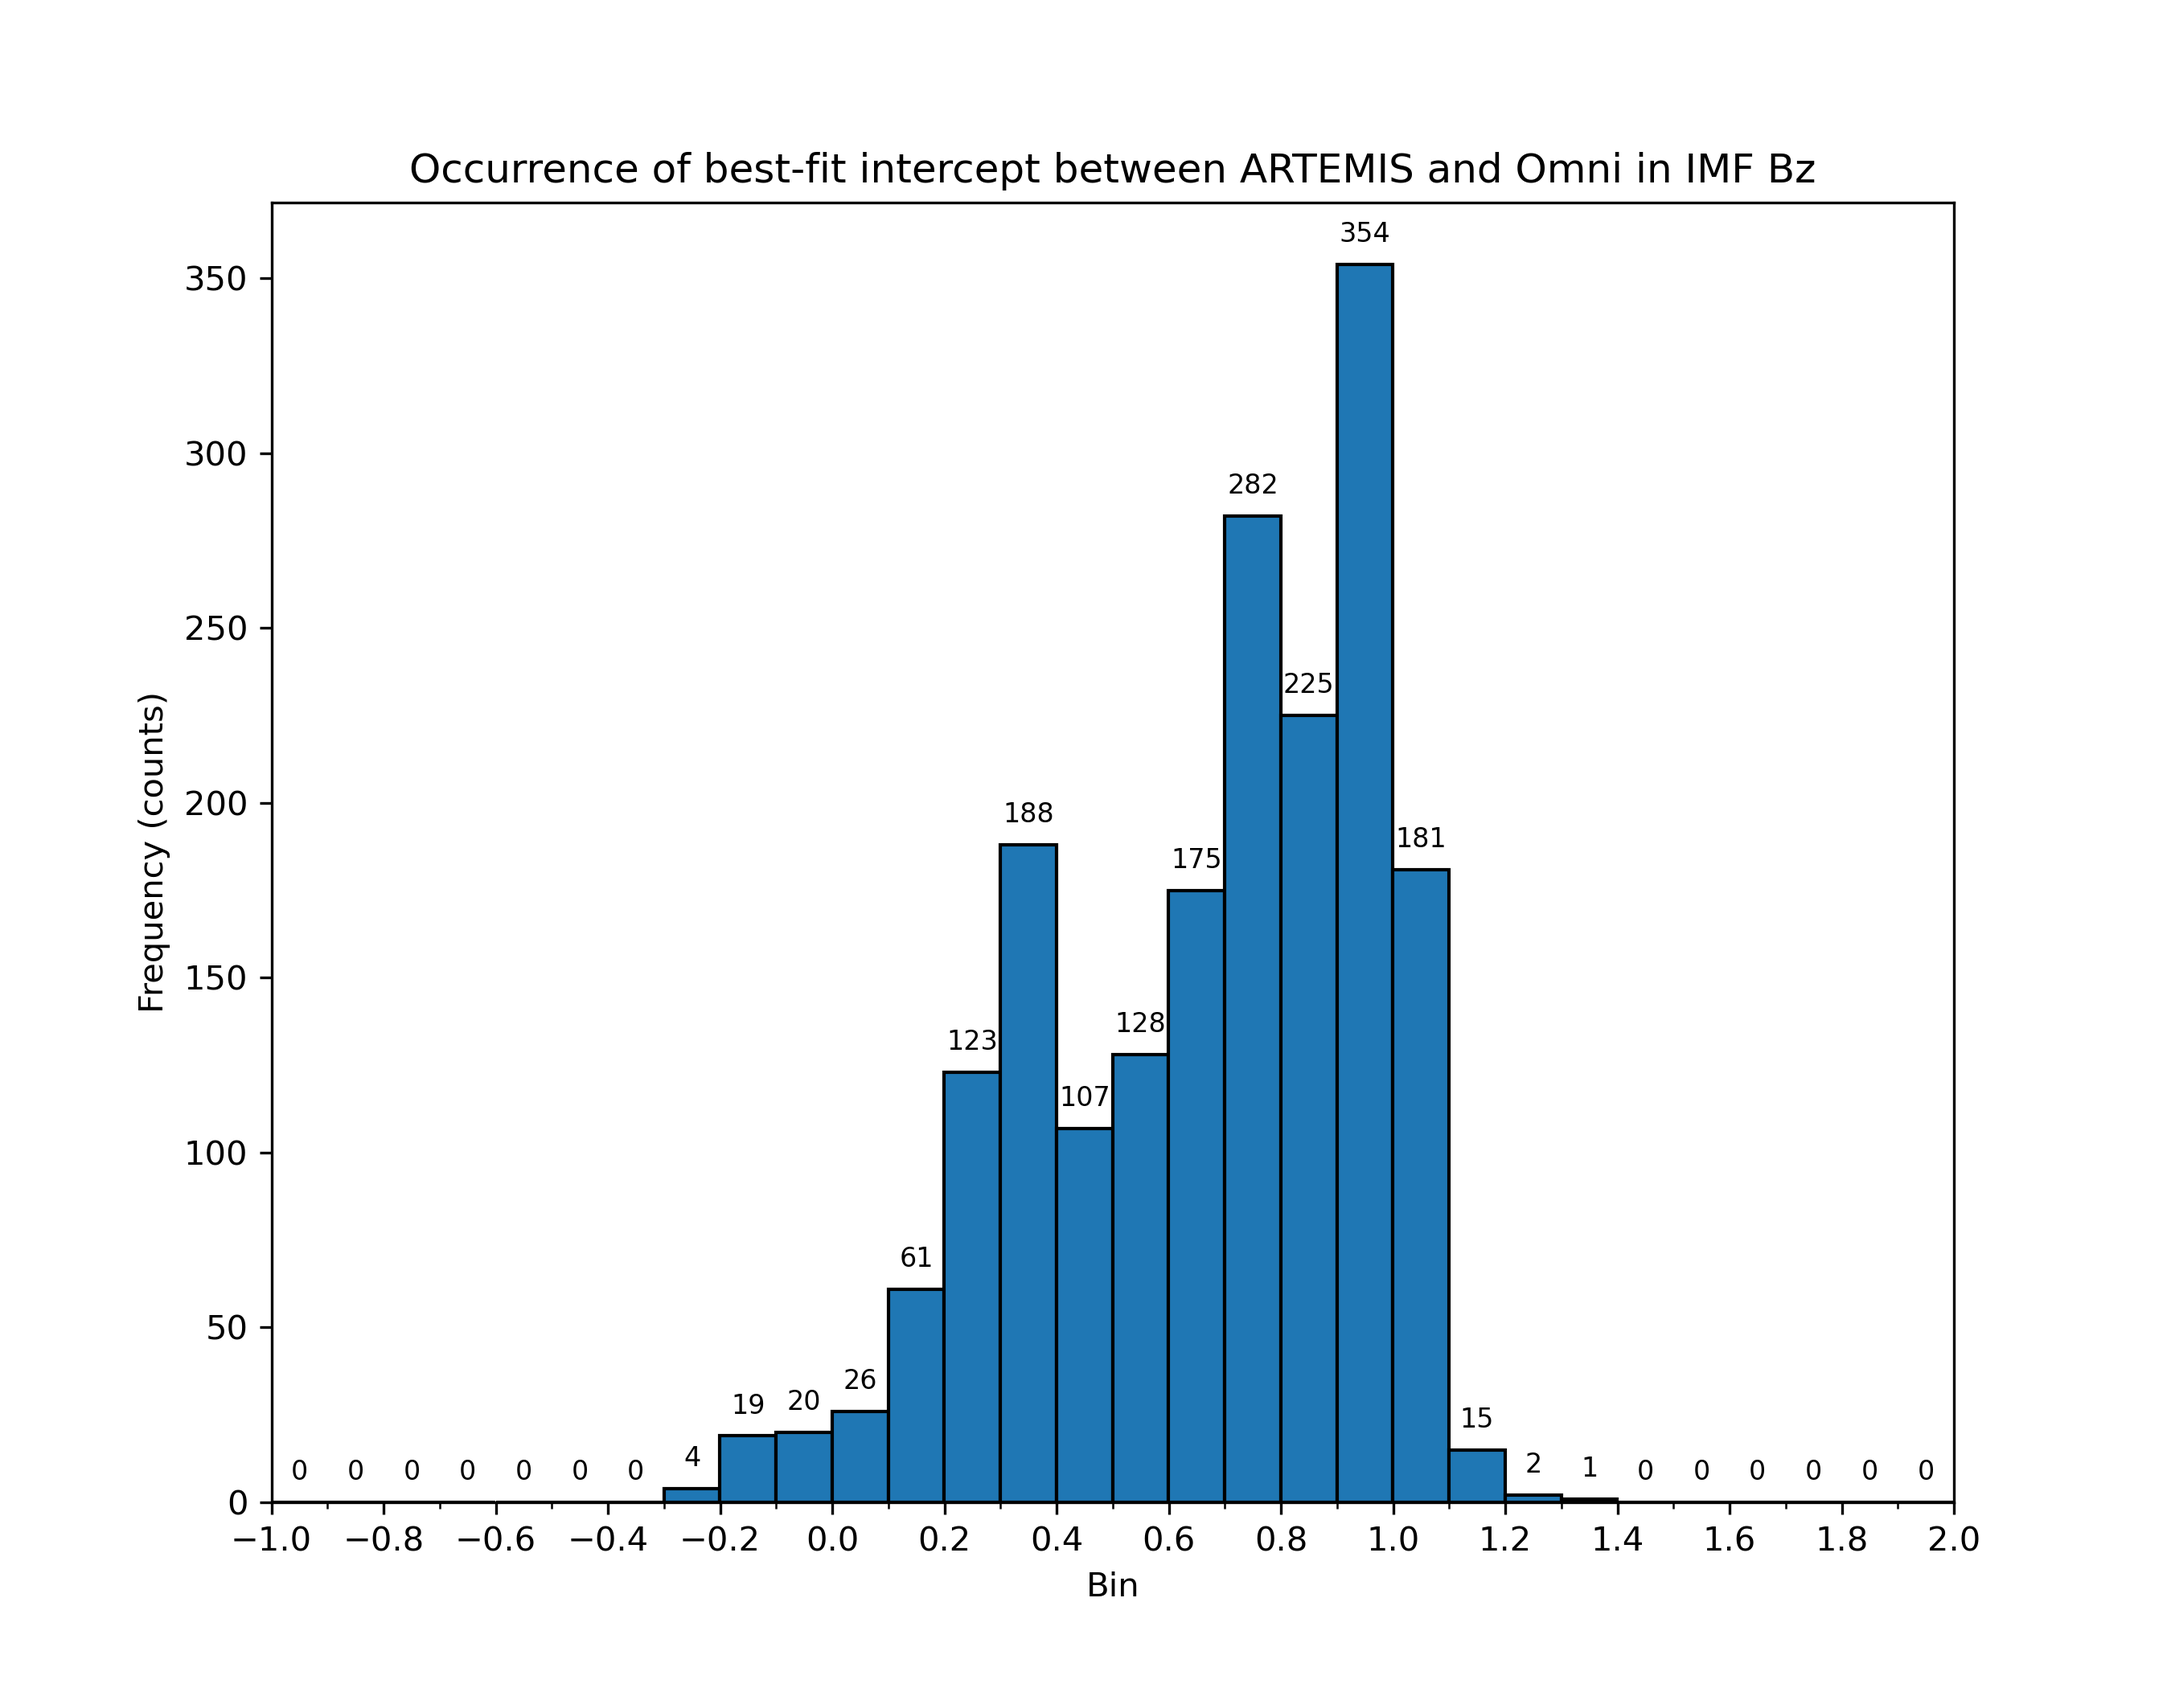
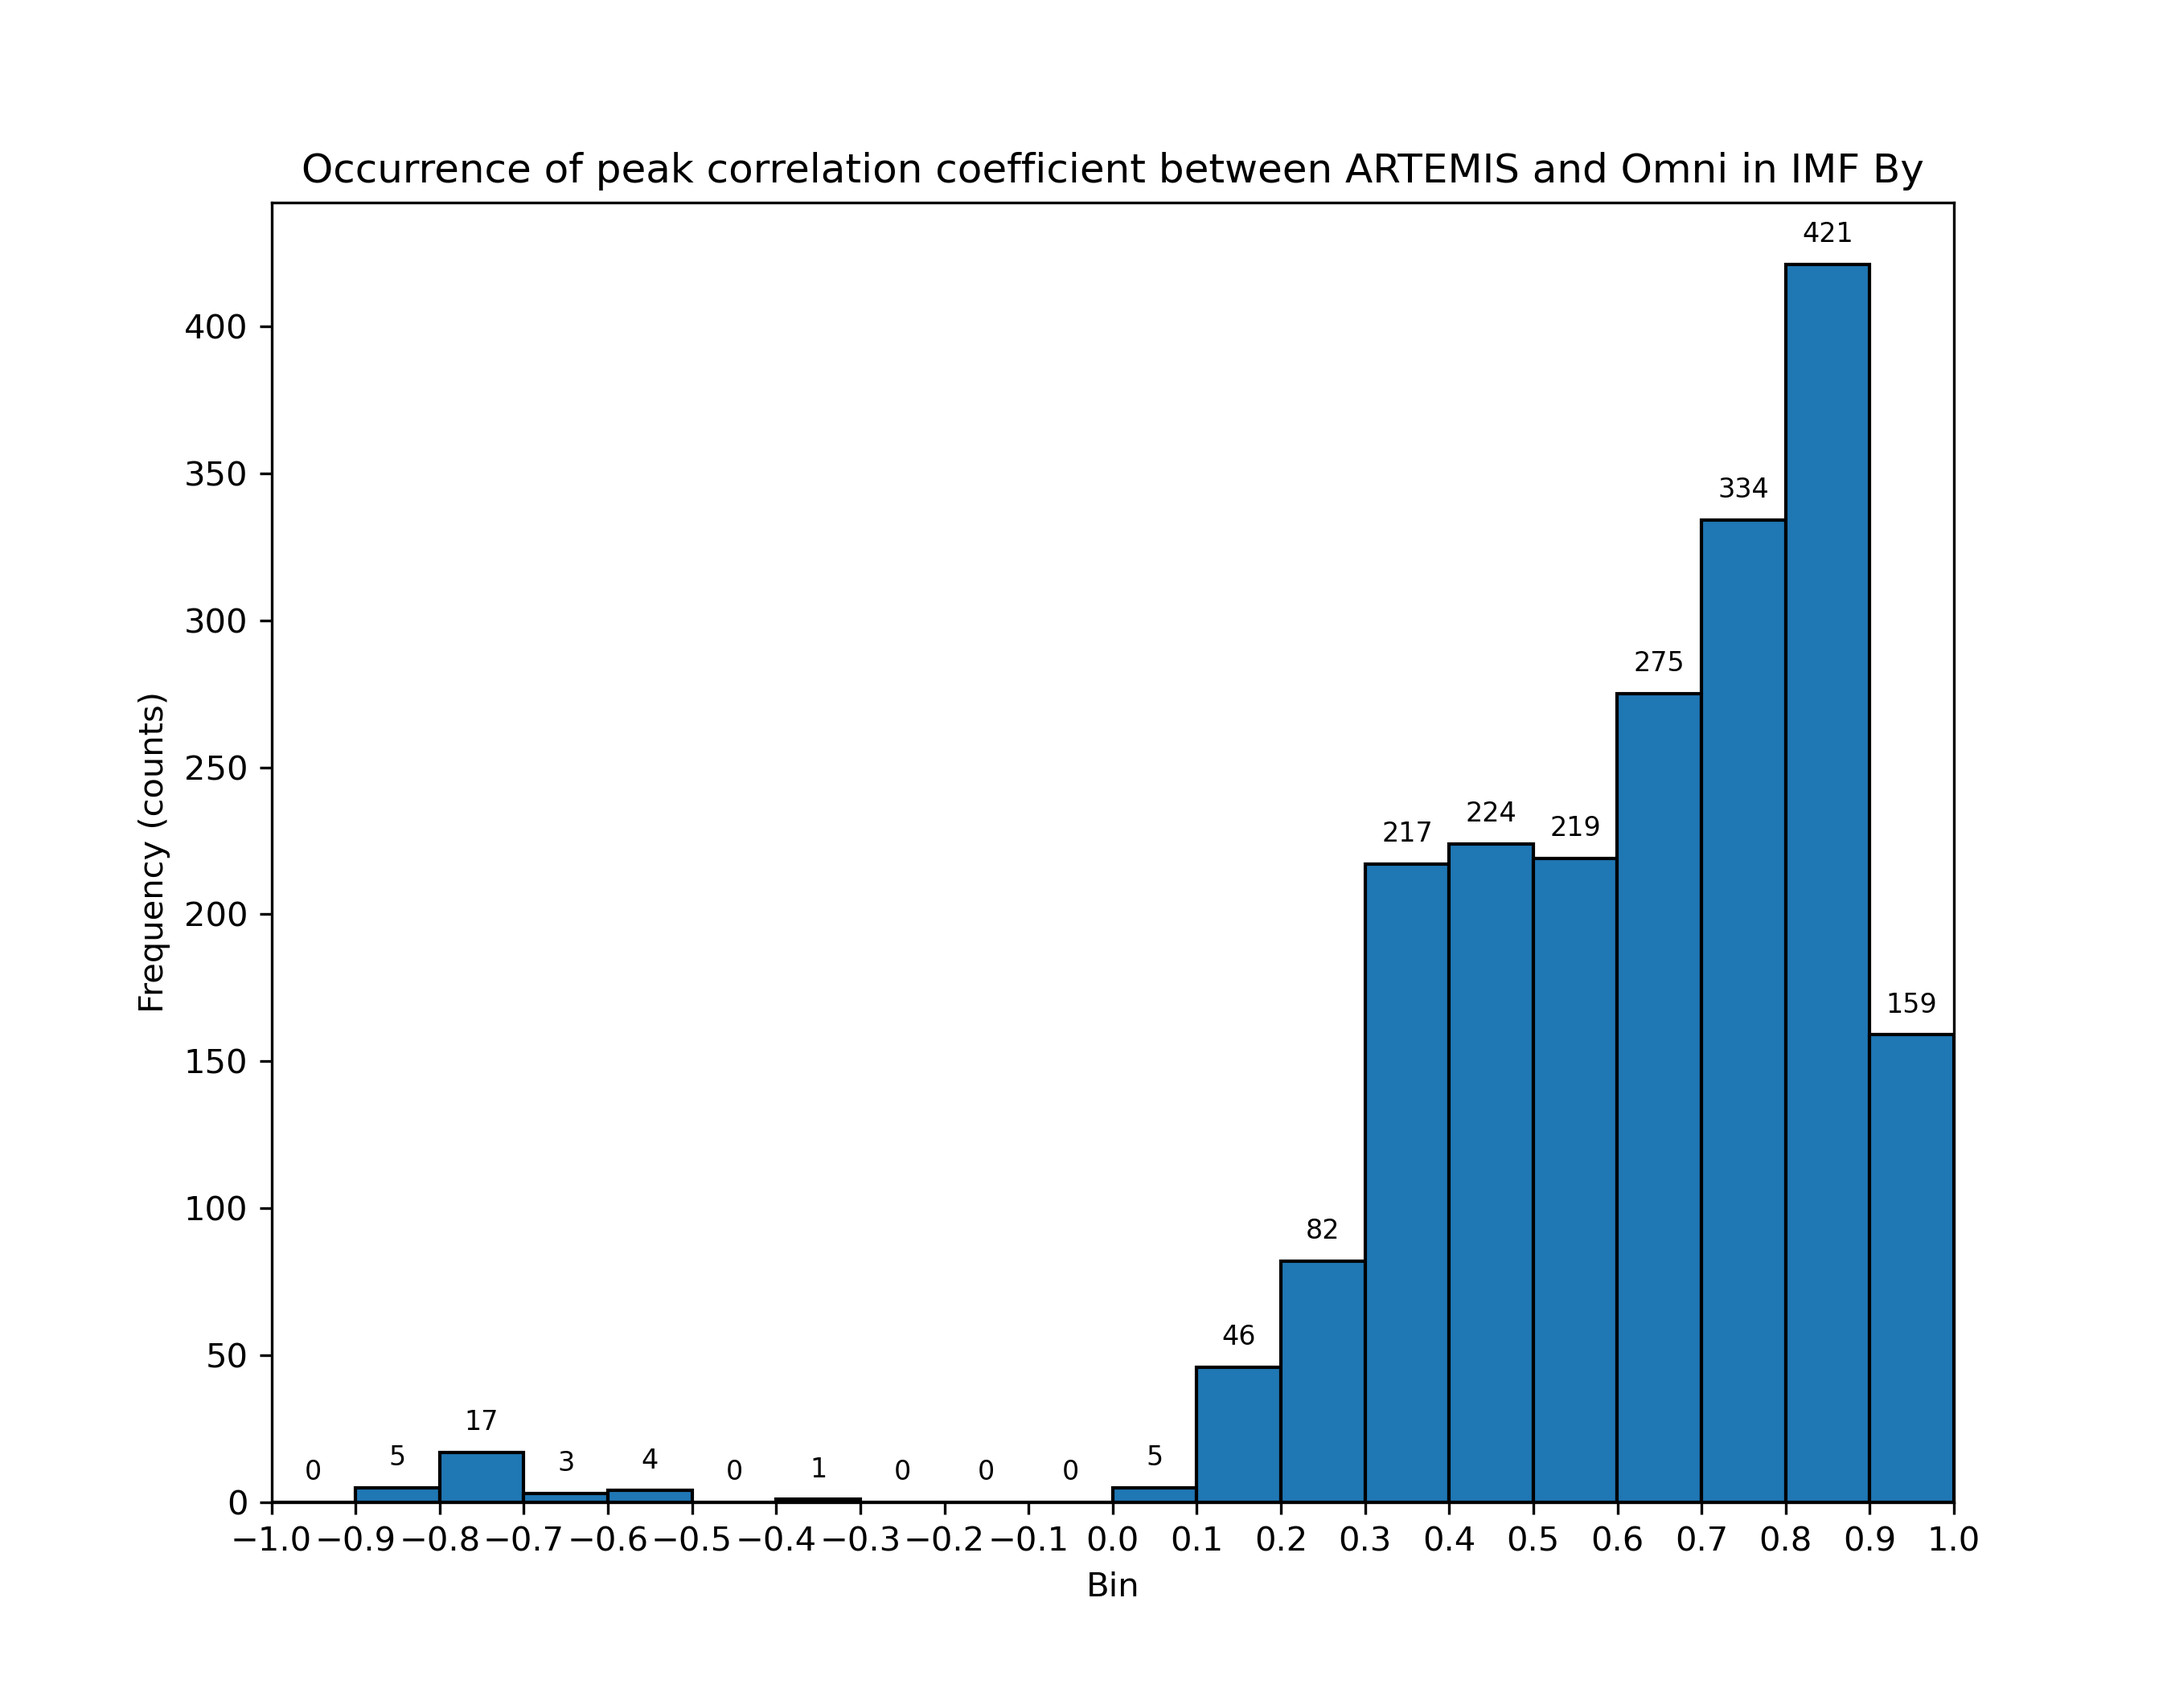
Histograms

diff --git a/scripts/test.py b/scripts/test.py
@@ -36,18 +36,18 @@ elif int(varToPlot) < len(vars):
 
 
     fig, ax = plt.subplots(figsize=(9,7))
-    plt.hist(params[keys[int(varToHist)]], bins=np.arange(-1, 2.1, 0.1), edgecolor = "black")
-    ax.xaxis.set_major_locator(MultipleLocator(0.2))
-    ax.xaxis.set_minor_locator(MultipleLocator(0.1))
+    plt.hist(params[keys[int(varToHist)]], bins=np.arange(-1, 1.1, 0.1), edgecolor = "black")
+    ax.xaxis.set_major_locator(MultipleLocator(0.1))
+    #ax.xaxis.set_minor_locator(MultipleLocator(0.1))
     for rect in ax.patches:
         height = rect.get_height()
         ax.annotate(f'{int(height)}', xy=(rect.get_x() + rect.get_width() / 2, height),
                     xytext=(0, 5), textcoords='offset points', ha='center', va='bottom', fontsize=8)
-    plt.title('Occurrence of best-fit intercept between ARTEMIS and Omni in IMF Bz')
+    plt.title('Occurrence of peak correlation coefficient between ARTEMIS and Omni in IMF Bz')
     plt.xlabel('Bin')
     plt.ylabel('Frequency (counts)')
 
-    plt.xlim(-1, 2)
+    plt.xlim(-1, 1)
     plt.savefig(os.path.join(fDir, 'Solar-Wind-Reliability/output-data/', vars[int(varToPlot)]+'-slope.png'), dpi=300)
     plt.show()
 

diff --git a/scripts/CSVCombiner.py b/scripts/CSVCombiner.py
@@ -19,7 +19,8 @@
 import pandas as pd
 import os
 
-fDir = input('Enter the path to the project directory: ')
+#fDir = input('Enter the path to the project directory: ')
+fDir = '/Volumes/Research'
 folders = [f for f in os.listdir(os.path.join(fDir, 'Solar-Wind-Reliability/output-data/hourly-correlations'))]
 
 vars = ['BX_GSE', 'BY_GSE', 'BZ_GSE', 'Vx', 'Vy', 'Vz', 'proton_density', 'T']
